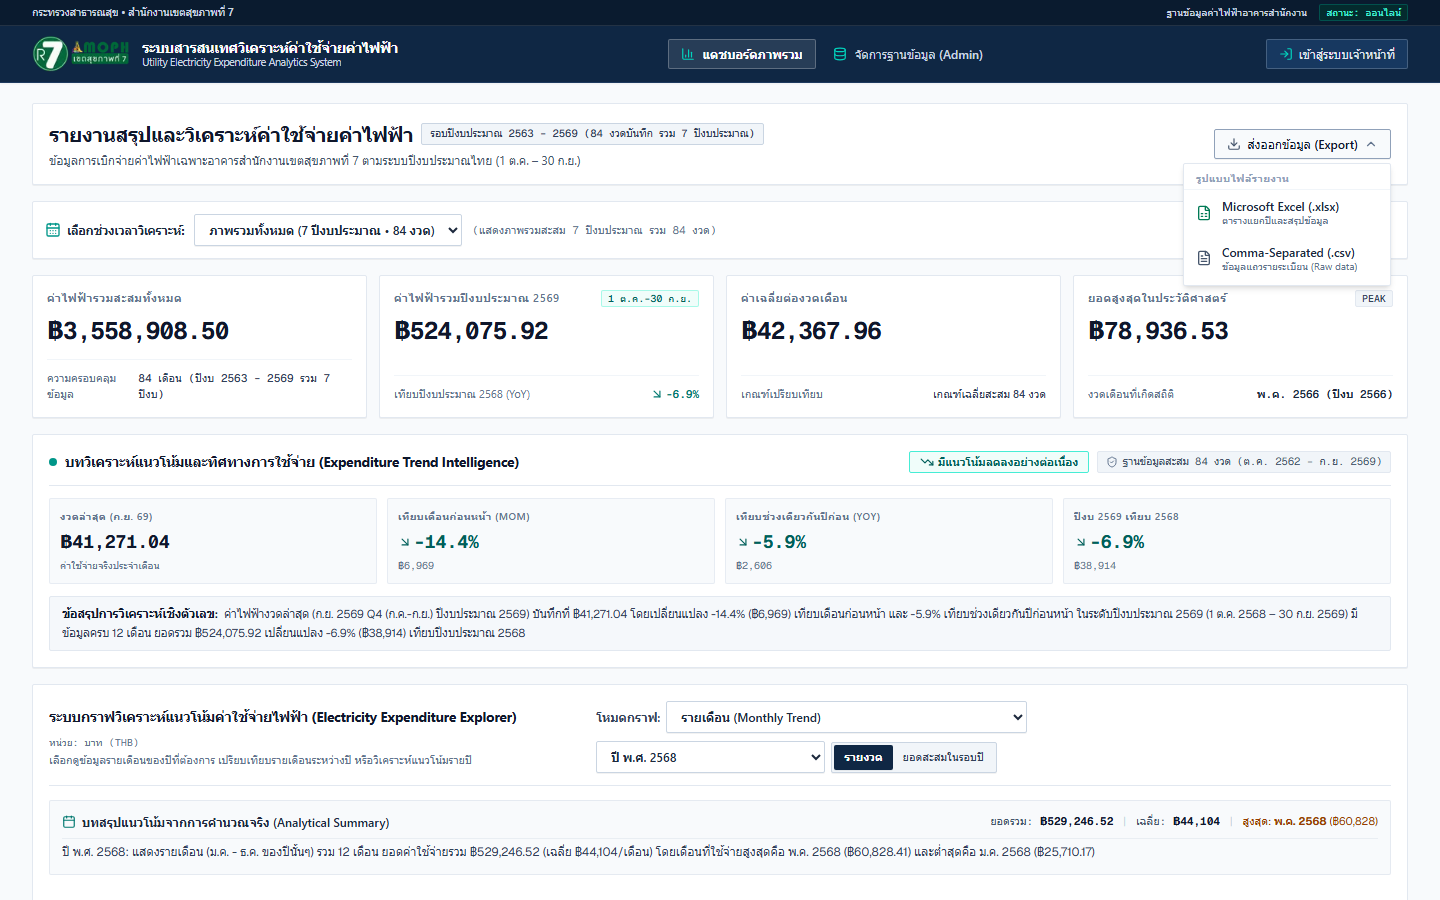
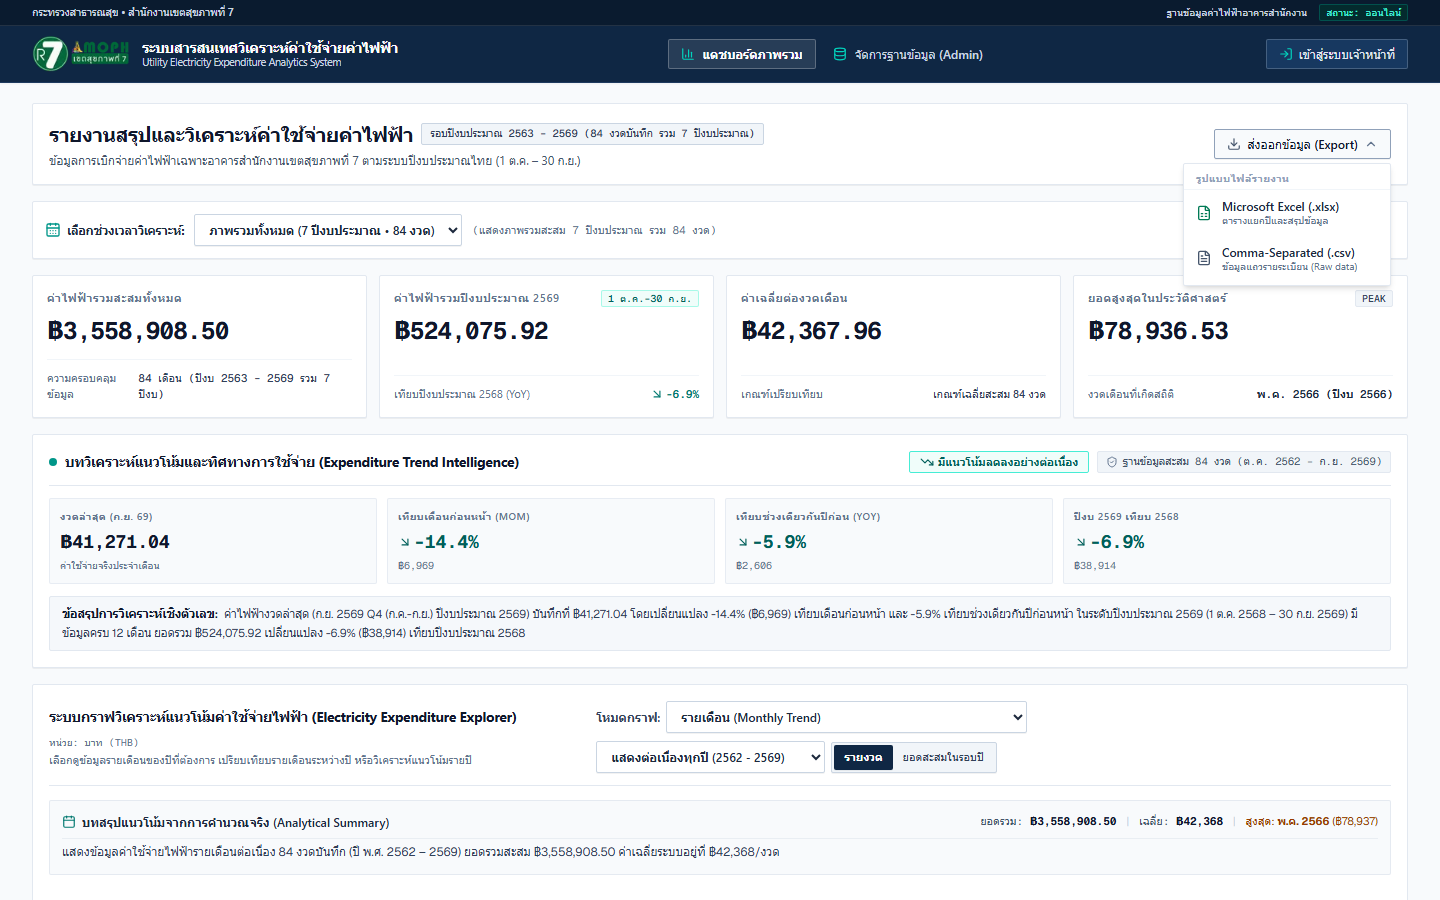
feat(ux): sync global period selector with chart drill-down mode automatically

Changed region(s): [[0.0312, 0.9022, 0.9688, 0.9644], [0.4375, 0.84, 0.5312, 0.8711]]

diff --git a/components/dashboard/expenditure-trend-explorer.tsx b/components/dashboard/expenditure-trend-explorer.tsx
@@ -54,19 +54,23 @@ export function ExpenditureTrendExplorer({
   const [yoyBenchmarkYear, setYoyBenchmarkYear] = useState<number>(availableYears[1] || 2568);
   const [yoyChartType, setYoyChartType] = useState<'bar' | 'line'>('bar');
 
-  // Synchronize with external selectedYear filter
+  // Synchronize with external selectedYear filter (Contextual Drill-down Standard)
   const [prevSelectedYear, setPrevSelectedYear] = useState<string>(selectedYear);
   if (selectedYear !== prevSelectedYear) {
     setPrevSelectedYear(selectedYear);
     if (selectedYear !== 'all') {
       const yrNum = parseInt(selectedYear, 10);
       if (availableYears.includes(yrNum)) {
+        setViewMode('monthly');
         setSelectedCalendarYear(selectedYear);
         setYoyPrimaryYear(yrNum);
         if (availableYears.includes(yrNum - 1)) {
           setYoyBenchmarkYear(yrNum - 1);
         }
       }
+    } else {
+      setViewMode('yearly');
+      setSelectedCalendarYear('all');
     }
   }
 
